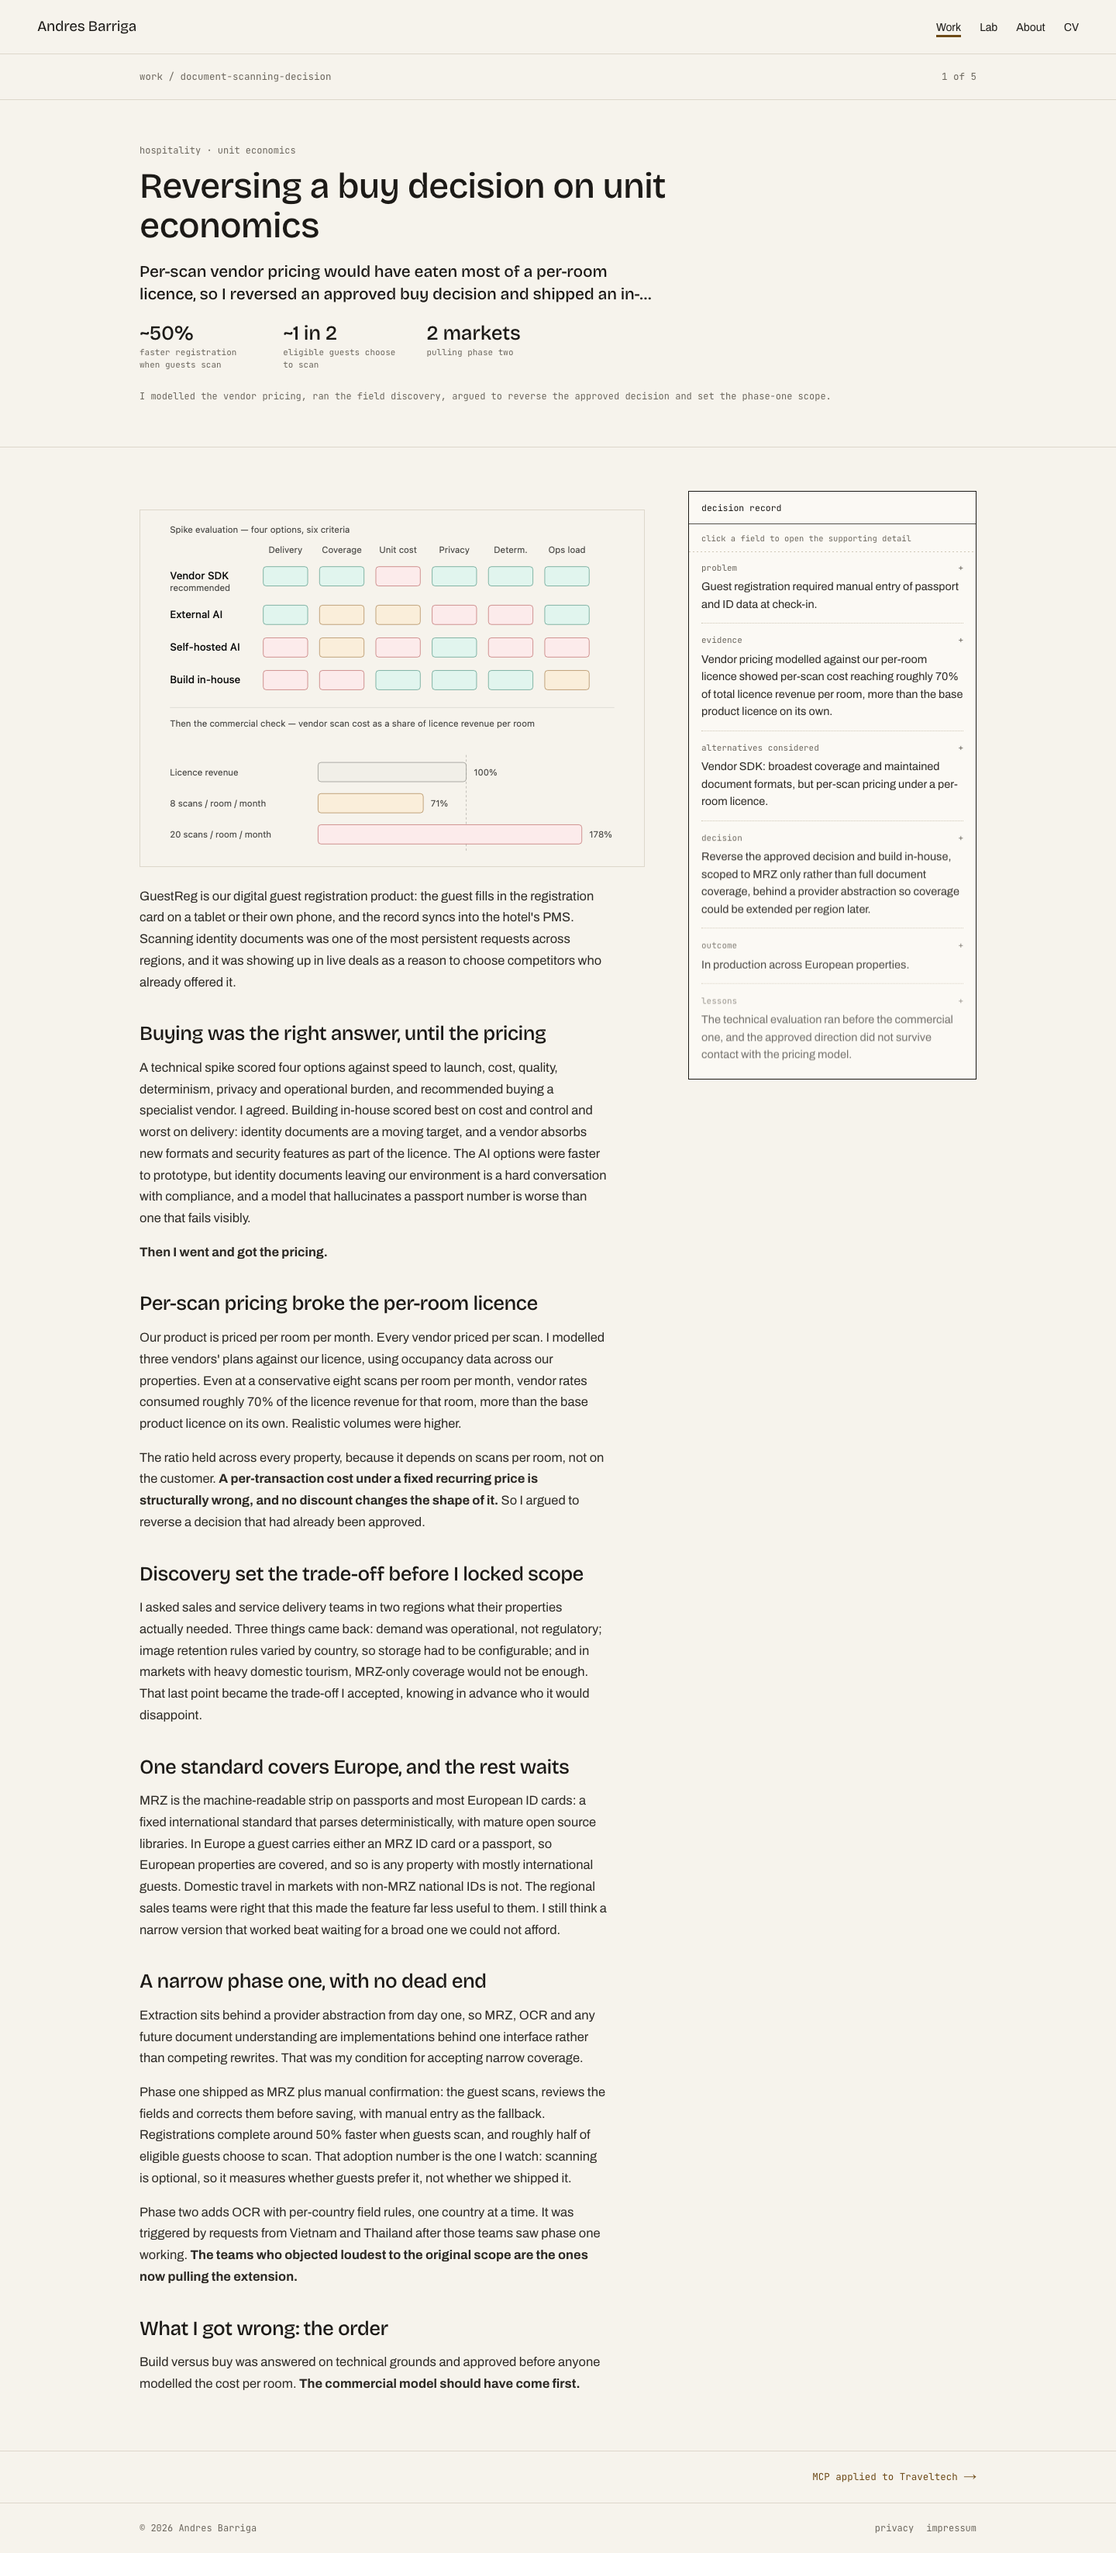
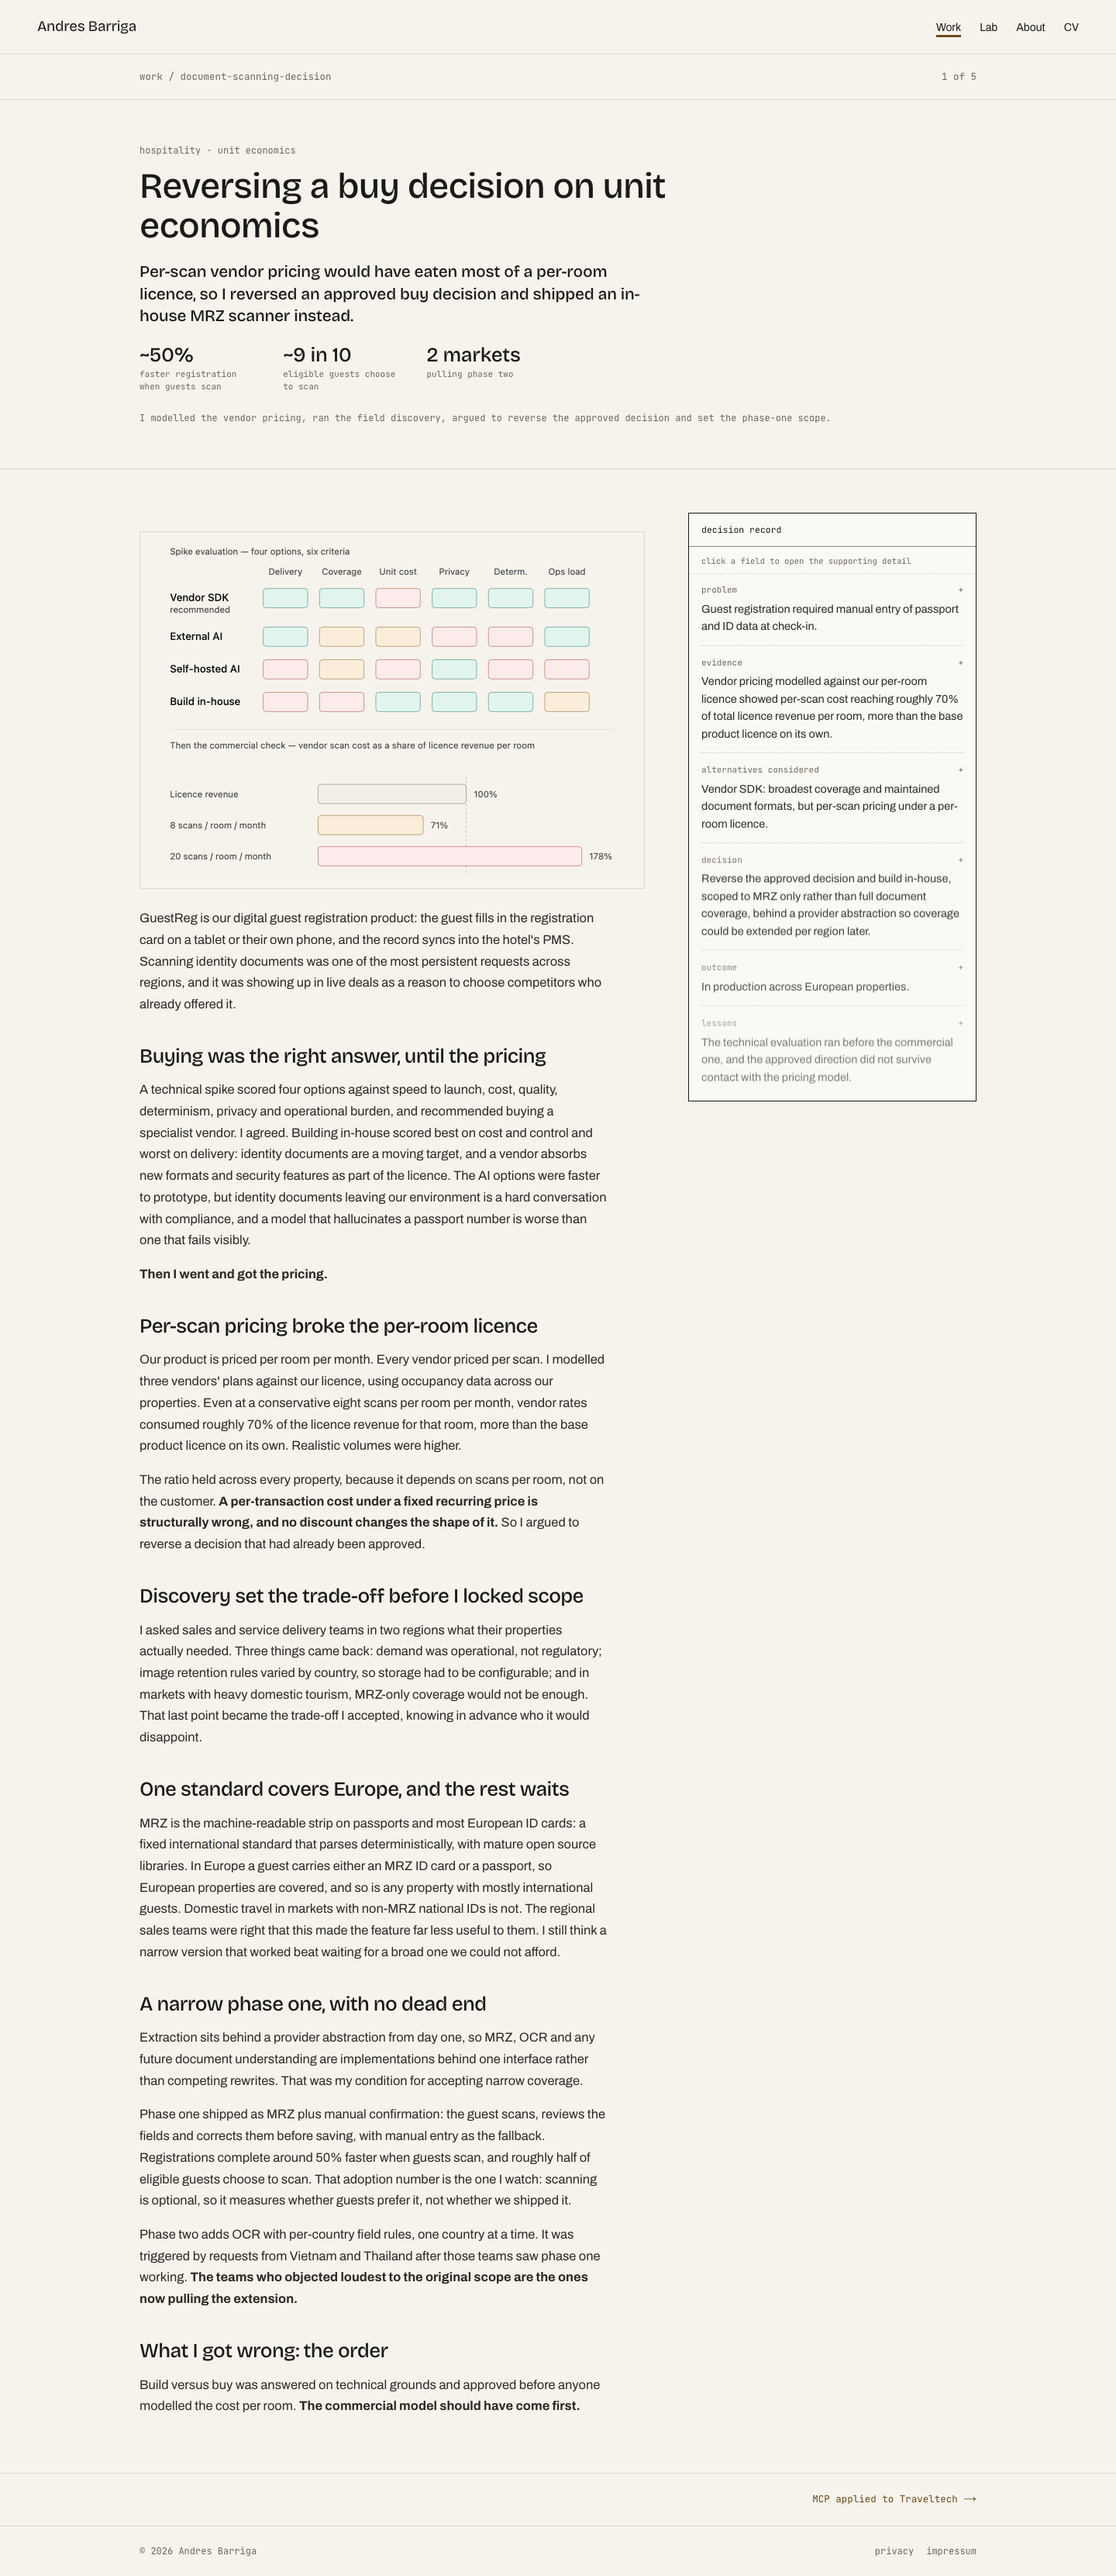
Allow 3-line takeaway clamp to fix mid-word truncation
The 2-line clamp cut document-scanning-decision's takeaway mid-word
("...shipped an in-…"), which read as broken rather than intentionally
truncated. Relaxing the cap to 3 lines lets the full sentence show.

Changed region(s): [[0.125, 0.1859, 0.5312, 0.9295], [0.625, 0.1859, 0.875, 0.4338], [0.125, 0.062, 0.5312, 0.1549]]

diff --git a/app/work/[slug]/page.tsx b/app/work/[slug]/page.tsx
@@ -107,7 +107,7 @@ export default async function CaseStudyPage(props: PageProps<"/work/[slug]">) {
           </h1>
 
           {frontmatter.takeaway ? (
-            <p className="mt-5 max-w-[48ch] font-display text-[19px] font-medium leading-[1.35] tracking-[-0.01em] text-ink sm:line-clamp-2 sm:text-[21px]">
+            <p className="mt-5 max-w-[48ch] font-display text-[19px] font-medium leading-[1.35] tracking-[-0.01em] text-ink sm:line-clamp-3 sm:text-[21px]">
               {frontmatter.takeaway}
             </p>
           ) : null}

diff --git a/CLAUDE.md b/CLAUDE.md
@@ -48,7 +48,7 @@ them):
 takeaway?, role?, results?
 ```
 
-`takeaway` is one sentence (large text, max two lines on desktop).
+`takeaway` is one sentence (large text, max three lines on desktop).
 `role` is one sentence, metadata-style. `results` is at most 3
 `{value, label}` pairs rendered as a stat row (e.g. `{ value: '~50%',
 label: 'faster registration when guests scan' }`).
